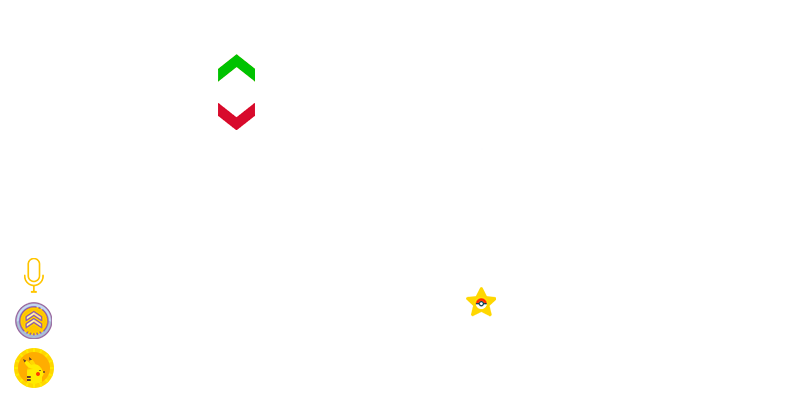
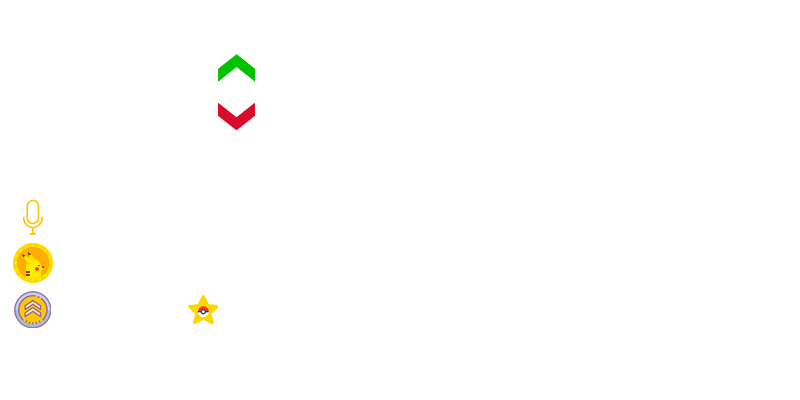
обновление профиля

diff --git a/Cog/profile.py b/Cog/profile.py
@@ -116,6 +116,12 @@ class profile(commands.Cog):
 
             return im.resize(s, Image.ANTIALIAS)
 
+        def bl_f(im):
+            mask = Image.new('L',(800, 400))
+            ImageDraw.Draw(mask).polygon(xy=[(0, 0),(340, 0),(500,400),(0,400)], fill = 250)
+            mask = mask.filter(ImageFilter.BoxBlur(1.5))
+            im.paste(im.filter( ImageFilter.GaussianBlur(radius=2) ), mask=mask)
+            return im
 
         t = dict(sorted(server['users'].items(),key=lambda x: x[1]['money'], reverse=True))
         topmn = list(t.keys()).index(str(member.id)) +1
@@ -146,20 +152,10 @@ class profile(commands.Cog):
         bar = Image.new('RGB',(800, 400))
 
         #панель
-        ImageDraw.Draw(mask).polygon(xy=[(0, 0),(402, 0),(285,400),(0,400)], fill = al[0])
-        ImageDraw.Draw(bar).polygon(xy=[(0, 0),(402, 0),(285,400),(0,400)], fill = (pl[0][0],pl[0][1],pl[0][2]))
+        ImageDraw.Draw(mask).polygon(xy=[(0, 0),(340, 0),(500,400),(0,400)], fill = al[0])
+        ImageDraw.Draw(bar).polygon(xy=[(0, 0),(340, 0),(500,400),(0,400)], fill = (pl[0][0],pl[0][1],pl[0][2]))
         bar = bar.filter(ImageFilter.BoxBlur(0.5))
         mask = mask.filter(ImageFilter.BoxBlur(1.5))
-        alpha = Image.composite(bar, alpha, mask)
-
-        #панель 2
-        mask = Image.new('L',(800, 400))
-        bar = Image.new('RGB',(800, 400))
-        ImageDraw.Draw(mask).polygon(xy=[(319, 285),(800, 285),(800,400),(285,400)], fill = al[1] )
-        ImageDraw.Draw(bar).polygon(xy=[(319, 285),(800, 285),(800,400),(285,400)], fill = (pl[1][0],pl[1][1],pl[1][2]))
-        bar = bar.filter(ImageFilter.BoxBlur(0.5))
-        mask = mask.filter(ImageFilter.BoxBlur(1.5))
-
         alpha = Image.composite(bar, alpha, mask)
 
         text_image = Image.open(f"elements/text.png")
@@ -172,17 +168,17 @@ class profile(commands.Cog):
         width, height = (800, 400)
 
         progress_width = 420 /100 * percent
-        progress_height = 20  # Пусть будет 10% от высоты
-        x0 = 330
-        y0 = height * (80 / 100)  # 80% от высоты
+        progress_height = 20
+        x0 = 30
+        y0 = height * (82 / 100)
 
         x1 = x0 + progress_width
         y1 = y0 + progress_height
         bar = Image.new('RGB',(800, 400))
         mask = Image.new('L',(800, 400))
-        ImageDraw.Draw(mask).polygon(xy=[(x0,y0+10),(x0-9,y1+10),(750,y1+10),(750,y0+10)], fill = 255)
-        mask = mask.filter(ImageFilter.BoxBlur(2))
-        ImageDraw.Draw(bar).polygon(xy=[(x0,y0+10),(x0-9,y1+10),(750,y1+10),(750,y0+10)], fill = (255, 255, 255), outline = (0, 0, 0))
+        ImageDraw.Draw(mask).polygon(xy=[(x0,y0+10),(x0-9,y1+10),(440,y1+10),(440,y0+10)], fill = 255)
+        # mask = mask.filter(ImageFilter.BoxBlur(2))
+        ImageDraw.Draw(bar).polygon(xy=[(x0,y0+10),(x0-9,y1+10),(440,y1+10),(440,y0+10)], fill = (255, 255, 255), outline = (0, 0, 0))
         alpha = Image.composite(bar, alpha, mask)
 
         if user['xp'] > 0:
@@ -219,53 +215,28 @@ class profile(commands.Cog):
         fg_img = im
         alpha = trans_paste(fg_img, bg_img, 1.0, (25, 25, 175, 175))
 
-        fr = user['frame']
-        if fr != None:
-            fr = frames.find_one({"id": fr})
-
-            fr_l = fr['link']
-
-            if fr['style'] == 1:
-
-                em = requests.get(fr_l, stream = True)
-                em = Image.open(io.BytesIO(em.content))
-                em = em.convert("RGBA")
-                em = em.resize((210, 210), Image.ANTIALIAS)
-
-                bg_img = alpha
-                fg_img = em
-                alpha = trans_paste(fg_img, bg_img, 1.0, (0, 0, 210, 210))
-
-            if fr['style'] == 2:
-
-                em = requests.get(fr_l, stream = True)
-                em = Image.open(io.BytesIO(em.content))
-                em = em.convert("RGBA")
-                em = em.resize((160, 160), Image.ANTIALIAS)
-
-                bg_img = alpha
-                fg_img = em
-                alpha = trans_paste(fg_img, bg_img, 1.0, (20, 20, 180, 180))
-
         idraw = ImageDraw.Draw(alpha)
-        if user['guild'] != None:
-            club = server['rpg']['guild'][f'{user["guild"]}']
-            idraw.text((315,360), f"{name}#{tag} [{club['tag']}]", font = headline) #первое значение это отступ с лева, второе сверху
-        else:
-            idraw.text((315,360), f"{name}#{tag}", font = headline)
 
-        idraw.text((60,348), f"{user['money']} #{topmn}", font = para)
-        idraw.text((260,50), f"{len(user['rep'][0])}", font = para)
-        idraw.text((260,90), str(len(user['rep'][1])), font = para)
-        idraw.text((505,282), f"{user['xp']}  |  {expn}" , font = para)
-        idraw.text((60,298), f"{user['lvl']} #{toplvl}" , font = para)
         if user['voice_time'] >= 86400:
             text = funs.time_end(user['voice_time'])[:-4]
         if user['voice_time'] >= 604800:
             text = funs.time_end(user['voice_time'])[:-8]
         else:
             text = funs.time_end(user['voice_time'])
-        idraw.text((60,252), f"{text} #{topvoice}" , font = para)
+
+        idraw.text((60,195), f"{text} #{topvoice}" , font = para)
+
+        if user['guild'] != None:
+            club = server['rpg']['guild'][f'{user["guild"]}']
+            idraw.text((15,360), f"{name}#{tag} [{club['tag']}]", font = headline) #первое значение это отступ с лева, второе сверху
+        else:
+            idraw.text((15,360), f"{name}#{tag}", font = headline)
+
+        idraw.text((60,242), f"{user['money']} #{topmn}", font = para)
+        idraw.text((260,50), f"{len(user['rep'][0])}", font = para)
+        idraw.text((260,90), str(len(user['rep'][1])), font = para)
+        idraw.text((230,288), f"{user['xp']} / {expn}" , font = para)
+        idraw.text((60,288), f"{user['lvl']} #{toplvl}" , font = para)
 
 
         embed = discord.Embed(color=0xf03e65)
@@ -400,7 +371,7 @@ class profile(commands.Cog):
 
 
         if bc['format'] == "png":
-
+            img = bl_f(img)
             bg_img = img
             fg_img = alpha
             img = trans_paste(fg_img, bg_img, 1.0)

diff --git a/Cog/bshop.py b/Cog/bshop.py
@@ -333,6 +333,13 @@ class bs(commands.Cog):
 
             return im.resize(s, Image.ANTIALIAS)
 
+        def bl_f(im):
+            mask = Image.new('L',(800, 400))
+            ImageDraw.Draw(mask).polygon(xy=[(0, 0),(340, 0),(500,400),(0,400)], fill = 250)
+            mask = mask.filter(ImageFilter.BoxBlur(1.5))
+            im.paste(im.filter( ImageFilter.GaussianBlur(radius=2) ), mask=mask)
+            return im
+
         t = '?'
 
         alpha = Image.open('elements/alpha.png')
@@ -359,20 +366,10 @@ class bs(commands.Cog):
         bar = Image.new('RGB',(800, 400))
 
         #панель
-        ImageDraw.Draw(mask).polygon(xy=[(0, 0),(402, 0),(285,400),(0,400)], fill = 153)
-        ImageDraw.Draw(bar).polygon(xy=[(0, 0),(402, 0),(285,400),(0,400)], fill = (0,0,0))
+        ImageDraw.Draw(mask).polygon(xy=[(0, 0),(340, 0),(500,400),(0,400)], fill = 153)
+        ImageDraw.Draw(bar).polygon(xy=[(0, 0),(340, 0),(500,400),(0,400)], fill = (0,0,0))
         bar = bar.filter(ImageFilter.BoxBlur(0.5))
         mask = mask.filter(ImageFilter.BoxBlur(1.5))
-        alpha = Image.composite(bar, alpha, mask)
-
-        #панель 2
-        mask = Image.new('L',(800, 400))
-        bar = Image.new('RGB',(800, 400))
-        ImageDraw.Draw(mask).polygon(xy=[(319, 285),(800, 285),(800,400),(285,400)], fill = 153 )
-        ImageDraw.Draw(bar).polygon(xy=[(319, 285),(800, 285),(800,400),(285,400)], fill = (0,0,0))
-        bar = bar.filter(ImageFilter.BoxBlur(0.5))
-        mask = mask.filter(ImageFilter.BoxBlur(1.5))
-
         alpha = Image.composite(bar, alpha, mask)
 
         text_image = Image.open(f"elements/text.png")
@@ -385,17 +382,16 @@ class bs(commands.Cog):
         width, height = (800, 400)
 
         progress_width = 420 /100 * percent
-        progress_height = 20  # Пусть будет 10% от высоты
-        x0 = 330
-        y0 = height * (80 / 100)  # 80% от высоты
+        progress_height = 20
+        x0 = 30
+        y0 = height * (82 / 100)
 
         x1 = x0 + progress_width
         y1 = y0 + progress_height
         bar = Image.new('RGB',(800, 400))
         mask = Image.new('L',(800, 400))
-        ImageDraw.Draw(mask).polygon(xy=[(x0,y0+10),(x0-9,y1+10),(750,y1+10),(750,y0+10)], fill = 255)
-        mask = mask.filter(ImageFilter.BoxBlur(2))
-        ImageDraw.Draw(bar).polygon(xy=[(x0,y0+10),(x0-9,y1+10),(750,y1+10),(750,y0+10)], fill = (255, 255, 255), outline = (0, 0, 0))
+        ImageDraw.Draw(mask).polygon(xy=[(x0,y0+10),(x0-9,y1+10),(440,y1+10),(440,y0+10)], fill = 255)
+        ImageDraw.Draw(bar).polygon(xy=[(x0,y0+10),(x0-9,y1+10),(440,y1+10),(440,y0+10)], fill = (255, 255, 255), outline = (0, 0, 0))
         alpha = Image.composite(bar, alpha, mask)
 
         if user['xp'] > 0:
@@ -432,21 +428,27 @@ class bs(commands.Cog):
         fg_img = im
         alpha = trans_paste(fg_img, bg_img, 1.0, (25, 25, 175, 175))
 
-
         idraw = ImageDraw.Draw(alpha)
 
-        idraw.text((315,360), f"{name}#{tag}", font = headline)
+        if user['voice_time'] >= 86400:
+            text = funs.time_end(user['voice_time'])[:-4]
+        if user['voice_time'] >= 604800:
+            text = funs.time_end(user['voice_time'])[:-8]
+        else:
+            text = funs.time_end(user['voice_time'])
 
-        idraw.text((60,348), f"{user['money']} #{t}", font = para)
+        idraw.text((60,195), f"{text} #{t}" , font = para)
+        idraw.text((15,360), f"{name}#{tag}", font = headline)
+
+        idraw.text((60,242), f"{user['money']} #{t}", font = para)
         idraw.text((260,50), f"{len(user['rep'][0])}", font = para)
         idraw.text((260,90), str(len(user['rep'][1])), font = para)
-        idraw.text((505,282), f"{user['xp']}  |  {expn}" , font = para)
-        idraw.text((60,298), f"{user['lvl']} #{t}" , font = para)      #55,265
-        idraw.text((60,252), f"{funs.time_end(user['voice_time'])} #{t}" , font = para)
+        idraw.text((230,288), f"{user['xp']} / {expn}" , font = para)
+        idraw.text((60,288), f"{user['lvl']} #{t}" , font = para)
 
 
         if type == "png":
-
+            img = bl_f(img)
             bg_img = img
             fg_img = alpha
             img = trans_paste(fg_img, bg_img, 1.0)
@@ -515,9 +517,11 @@ class bs(commands.Cog):
 
                 bs = s['bs']
                 try:
-                    bs_id = int(max(bs.keys())) + 2
+                    bs_id = int(max(bs.keys())) + 3
                 except:
                     bs_id = 1
+
+                print(bs_id)
 
                 embed = discord.Embed(title = f'ID {bs_id}', description = f'Автор: {ctx.author.id}\nУкзанный формат: {type}\nURL: {link}')
                 embed.set_image(url=link)
